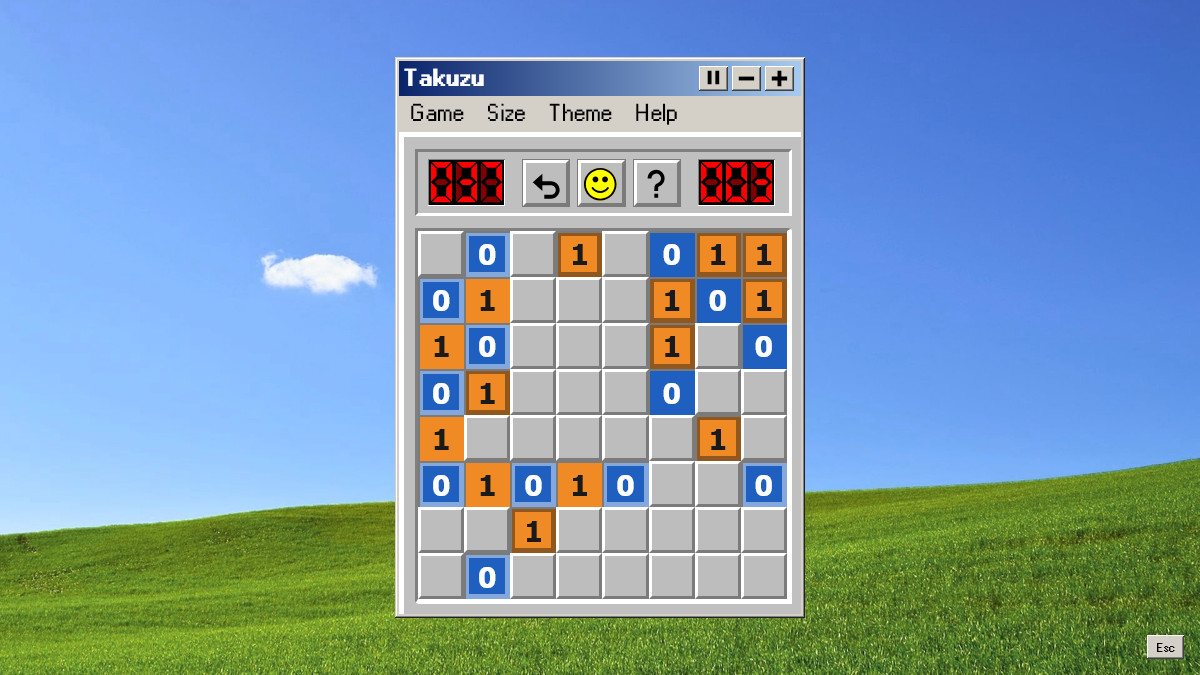
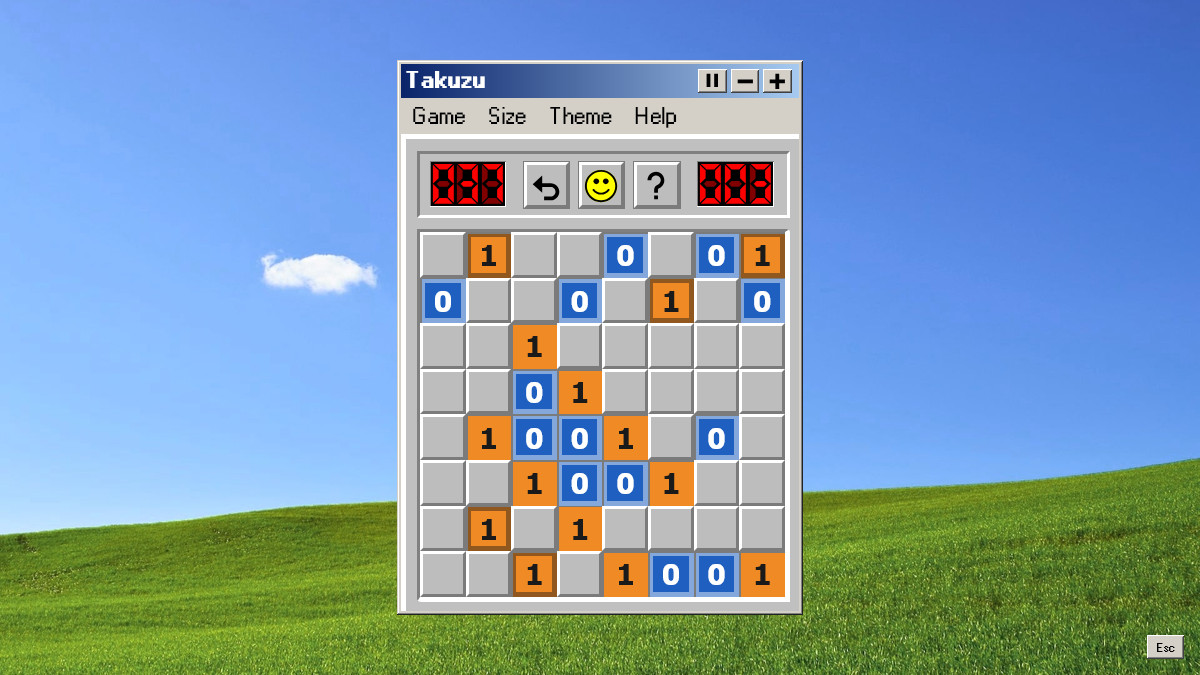
Updates

Changed region(s): [[0.3083, 0.0622, 0.6783, 0.9333]]

diff --git a/assets/app-BQTvLBbz.js b/assets/app-BQTvLBbz.js
@@ -1,0 +1,4 @@
+//#region src/takuzu/app.jsx?raw
+var app_default = "import { h } from 'hyperapp'\r\nimport '../app.css'\r\nimport Winner from '../Winner'\r\nimport BackgroundSettings from '../shell/BackgroundSettings'\r\nimport Boss, { BossButton } from '../shell/Boss'\r\nimport { load, remove, save } from '../shell/storage'\r\nimport { listen, shellActions, shellState, shortcut } from '../shell/actions'\r\nimport Game, { running } from './Game'\r\nimport BestTimes from './BestTimes'\r\nimport Prompt from './Prompt'\r\nimport { fallback, levelNames } from './Menu'\r\nimport { EMPTY, emptyBoard, full, sizes, solved } from './rules'\r\nimport { findHint } from './hint'\r\nimport { deal } from './deal'\r\nimport { showRain } from './rain'\r\nimport About from './About'\r\n\r\n//the saved size and level, medium 8x8 when missing or out of range\r\nconst loadChoice = () => {\r\n  const saved = parseInt(load('takuzu.size'), 10)\r\n  const n = sizes.includes(saved) ? saved : 8\r\n  const level = parseInt(load('takuzu.level'), 10)\r\n  if (!(level >= 0 && level < levelNames.length)) return { n, level: 1 }\r\n  return { n, level: fallback(n, level) }\r\n}\r\n\r\n//an empty board until the dealer answers\r\nexport const createGame = ({ n, level }) => ({\r\n  n,\r\n  level,\r\n  givens: emptyBoard(n),\r\n  solution: null,\r\n  board: emptyBoard(n),\r\n  history: [],\r\n  change: 0,\r\n  dealing: true,\r\n  deal: 0,\r\n  start: -1,\r\n  time: 0,\r\n  raf: null,\r\n  paused: false,\r\n  pausedAt: 0,\r\n  win: false,\r\n  hinted: false,\r\n})\r\n\r\n//best times by size and level, kept apart for games with and without hints\r\nconst timeKey = (n, level, hinted) => `takuzu.${n}.${level}${hinted ? '.hints' : ''}`\r\n\r\nconst eachSlot = (fn) =>\r\n  sizes.flatMap((n) => levelNames.map((_, level) => fn(n, level, `${n}.${level}`)))\r\n\r\nconst bestTimes = (hinted) =>\r\n  Object.fromEntries(\r\n    eachSlot((n, level, slot) => {\r\n      const key = timeKey(n, level, hinted)\r\n      const time = parseInt(load(key), 10) || 999\r\n      return [slot, { time, name: load(`${key}.name`) || 'Anonymous' }]\r\n    }),\r\n  )\r\n\r\nconst clearBestTimes = (hinted) => {\r\n  eachSlot((n, level) => {\r\n    const key = timeKey(n, level, hinted)\r\n    remove(key)\r\n    remove(`${key}.name`)\r\n  })\r\n  return bestTimes(hinted)\r\n}\r\n\r\n//a click steps forward through these, a right click back\r\nconst cycle = [EMPTY, 0, 1]\r\n\r\n//a full board with errors waits this long before asking, when its last cell may still be on its way\r\nconst ASK_AFTER = 2500\r\n\r\nlet deals = 0\r\nlet changes = 0\r\n\r\nconst prevent = (event) => {\r\n  event.preventDefault()\r\n  return false\r\n}\r\n\r\n//the clock starts on the first change or hint\r\nconst begin = (game, actions) => {\r\n  if (game.start >= 0) return game\r\n  game.raf = requestAnimationFrame(actions.tick)\r\n  return { ...game, start: performance.now(), time: 1 }\r\n}\r\n\r\n//after a cell changes: a win, or a full board that isn't one\r\n//settled means another click the same way would only empty the cell again, so ask now\r\n//otherwise the cell may be passing through on its way to the value meant, so ask later\r\nconst changed = (game, board, history, actions, settled = false) => {\r\n  const next = { ...begin(game, actions), board, history, change: ++changes }\r\n  next.win = solved(board, next.n)\r\n  if (next.win) {\r\n    cancelAnimationFrame(next.raf)\r\n    actions.win(next)\r\n  }\r\n  const stuck = !next.win && full(board)\r\n  if (stuck && !settled) setTimeout(() => actions.ask(next.change), ASK_AFTER)\r\n  return { hint: null, prompt: stuck && settled, game: next }\r\n}\r\n\r\n//tricky arrived between medium and hard on 2026-10-29, so the old times were cleared once\r\n//and a saved hard or expert choice moved up a place to keep its name\r\nexport const upgradeLadder = () => {\r\n  if (load('takuzu.ladder') === '5') return\r\n  eachSlot((n, level) => {\r\n    for (const key of [timeKey(n, level, false), timeKey(n, level, true)]) {\r\n      remove(key)\r\n      remove(`${key}.name`)\r\n    }\r\n  })\r\n  const level = parseInt(load('takuzu.level'), 10)\r\n  if (level >= 2) save('takuzu.level', level + 1)\r\n  save('takuzu.ladder', '5')\r\n}\r\n\r\nupgradeLadder()\r\n\r\nexport const state = {\r\n  ...shellState(),\r\n  hint: null,\r\n  prompt: false,\r\n  errors: Boolean(load('takuzu.errors')),\r\n  rain: Boolean(load('takuzu.rain')),\r\n  about: false,\r\n  game: createGame(loadChoice()),\r\n  winner: null,\r\n  bestTime: null,\r\n}\r\n\r\nexport const actions = {\r\n  ...shellActions,\r\n  init: () => (state, actions) => {\r\n    window.addEventListener('keydown', actions.press)\r\n    listen(actions)\r\n    showRain(state.rain)\r\n    actions.reset()\r\n  },\r\n  press: (event) => (state, actions) => {\r\n    //undo is the one shortcut with a modifier\r\n    const typing = ['INPUT', 'SELECT', 'TEXTAREA'].includes(event.target.tagName)\r\n    if ((event.ctrlKey || event.metaKey) && !event.altKey && event.keyCode === 90) {\r\n      if (typing || state.boss) return\r\n      event.preventDefault()\r\n      actions.undo()\r\n      return\r\n    }\r\n    const key = shortcut(event, state, actions)\r\n    if (key === 113 || key === 78) {\r\n      actions.reset()\r\n    } else if (key === 72) {\r\n      actions.hint()\r\n    } else if (key === 80) {\r\n      actions.pause()\r\n    }\r\n  },\r\n  //deals a new board, keeping the size and level unless given\r\n  reset:\r\n    (payload) =>\r\n    ({ game }, actions) => {\r\n      cancelAnimationFrame(game.raf)\r\n      const n = (payload && payload.n) || game.n\r\n      const asked = payload && payload.level !== undefined ? payload.level : game.level\r\n      const level = fallback(n, asked)\r\n      save('takuzu.size', n)\r\n      save('takuzu.level', level)\r\n      const id = ++deals\r\n      deal(n, level, Math.floor(Math.random() * 2 ** 32)).then((dealt) =>\r\n        actions.dealt({ id, ...dealt }),\r\n      )\r\n      return {\r\n        menu: null,\r\n        hint: null,\r\n        prompt: false,\r\n        game: { ...createGame({ n, level }), deal: id },\r\n      }\r\n    },\r\n  //an answer for an older deal is dropped\r\n  dealt:\r\n    ({ id, givens, solution }) =>\r\n    ({ game }) => {\r\n      if (game.deal !== id) return null\r\n      return { game: { ...game, givens, solution, board: givens.slice(), dealing: false } }\r\n    },\r\n  play:\r\n    ({ event, i }) =>\r\n    ({ game }, actions) => {\r\n      if (event.button !== 0 && event.button !== 2) return null\r\n      if (game.dealing || game.paused || game.win || game.givens[i] !== EMPTY) return null\r\n      const back = event.button === 2\r\n      const from = game.board[i]\r\n      const board = game.board.slice()\r\n      board[i] = cycle[(cycle.indexOf(from) + (back ? 2 : 1)) % 3]\r\n      const settled = board[i] === (back ? 0 : 1)\r\n      return changed(game, board, [...game.history, [i, from]], actions, settled)\r\n    },\r\n  //the delayed question, dropped if the board changed or the game moved on meanwhile\r\n  ask:\r\n    (change) =>\r\n    ({ game }) => {\r\n      if (game.change !== change || game.win || game.paused || !full(game.board)) return null\r\n      return { prompt: true }\r\n    },\r\n  undo:\r\n    () =>\r\n    ({ game }, actions) => {\r\n      if (!game.history.length || game.win || game.paused || game.dealing) return { menu: null }\r\n      const [i, from] = game.history[game.history.length - 1]\r\n      const board = game.board.slice()\r\n      board[i] = from\r\n      return { menu: null, ...changed(game, board, game.history.slice(0, -1), actions) }\r\n    },\r\n  hint:\r\n    () =>\r\n    ({ game }, actions) => {\r\n      if (game.dealing || game.win || game.paused) return { menu: null }\r\n      const { board, solution, n } = game\r\n      return {\r\n        menu: null,\r\n        prompt: false,\r\n        hint: findHint({ board, solution, n }),\r\n        game: { ...begin(game, actions), hinted: true },\r\n      }\r\n    },\r\n  //yes asks for a hint, no leaves the player to find the mistake\r\n  answerPrompt: (yes) => (state, actions) => {\r\n    if (yes) actions.hint()\r\n    return { prompt: false }\r\n  },\r\n  toggleErrors: () => (state) => {\r\n    save('takuzu.errors', state.errors ? '' : 'yes')\r\n    return { menu: null, errors: !state.errors }\r\n  },\r\n  toggleRain: () => (state) => {\r\n    save('takuzu.rain', state.rain ? '' : 'yes')\r\n    showRain(!state.rain)\r\n    return { menu: null, rain: !state.rain }\r\n  },\r\n  toggleAbout:\r\n    () =>\r\n    ({ about }) => ({ menu: null, about: !about }),\r\n  //stop the clock and hide the board, only while a game is running\r\n  pause:\r\n    (paused) =>\r\n    ({ game }, actions) => {\r\n      const next = paused === undefined ? !game.paused : paused\r\n      if (!running(game) || next === game.paused) return null\r\n      if (!next) {\r\n        game.raf = requestAnimationFrame(actions.tick)\r\n        return {\r\n          game: { ...game, paused: false, start: game.start + performance.now() - game.pausedAt },\r\n        }\r\n      }\r\n      cancelAnimationFrame(game.raf)\r\n      return { menu: null, game: { ...game, paused: true, pausedAt: performance.now() } }\r\n    },\r\n  tick:\r\n    (now) =>\r\n    ({ game }, actions) => {\r\n      game.raf = requestAnimationFrame(actions.tick)\r\n      const next = Math.floor((now - game.start) / 1000) + 1\r\n      if (game.time === next) return null\r\n      return { game: { ...game, time: next } }\r\n    },\r\n  win:\r\n    ({ n, level, hinted, time }) =>\r\n    () => {\r\n      const key = timeKey(n, level, hinted)\r\n      const best = parseInt(load(key), 10)\r\n      if (best && best <= time) return null\r\n      return {\r\n        winner: {\r\n          key,\r\n          time,\r\n          hinted,\r\n          level: `${levelNames[level].toLowerCase()} ${n} × ${n}`,\r\n          name: load('takuzu.name') || '',\r\n        },\r\n      }\r\n    },\r\n  changeWinner:\r\n    (payload) =>\r\n    ({ winner }) => ({\r\n      winner: { ...winner, ...payload },\r\n    }),\r\n  submitBestTime:\r\n    (event) =>\r\n    ({ winner }, actions) => {\r\n      event.preventDefault()\r\n      const name = winner.name.trim()\r\n      save(winner.key, winner.time)\r\n      save(`${winner.key}.name`, name)\r\n      save('takuzu.name', name)\r\n      actions.toggleBestTime()\r\n      actions.setBestTimeTab(winner.hinted ? 'hinted' : 'clean')\r\n      return { winner: null }\r\n    },\r\n  toggleBestTime:\r\n    () =>\r\n    ({ bestTime }) => ({\r\n      menu: null,\r\n      bestTime: bestTime\r\n        ? null\r\n        : { tab: 'clean', clean: bestTimes(false), hinted: bestTimes(true) },\r\n    }),\r\n  setBestTimeTab: (tab) => (state) =>\r\n    state.bestTime ? { bestTime: { ...state.bestTime, tab } } : null,\r\n  resetBestTime:\r\n    () =>\r\n    ({ bestTime }) => ({\r\n      bestTime: { ...bestTime, [bestTime.tab]: clearBestTimes(bestTime.tab === 'hinted') },\r\n    }),\r\n}\r\n\r\nexport const view = (state, actions) => (\r\n  <main oncontextmenu={prevent} ondragstart={prevent} oncreate={actions.init}>\r\n    <Game key=\"a\" state={state} actions={actions} />\r\n    <BossButton key=\"h\" actions={actions} />\r\n    {state.winner && <Winner key=\"b\" state={state.winner} actions={actions} />}\r\n    {state.bestTime && <BestTimes key=\"c\" state={state.bestTime} actions={actions} />}\r\n    {state.prompt && <Prompt key=\"d\" actions={actions} />}\r\n    {state.backgroundSettings && (\r\n      <BackgroundSettings key=\"e\" state={state.backgroundSettings} actions={actions} />\r\n    )}\r\n    {state.about && <About key=\"f\" actions={actions} />}\r\n    {state.boss && <Boss key=\"g\" state={state.boss} actions={actions} />}\r\n  </main>\r\n)\r\n";
+//#endregion
+export { app_default as default };

diff --git a/assets/techniques-BWmIttHM.js b/assets/techniques-BWmIttHM.js
@@ -1,0 +1,4 @@
+//#region src/takuzu/techniques.js?raw
+var techniques_default = "import { EMPTY, cellsOf, full, lineName as nameOf, linesOf, readLine, violations } from './rules'\r\nimport { propagate, startCandidates } from './solver'\r\n\r\n//the reasoning a person uses, easiest first, behind hints, difficulty and generation\r\n//a step is { technique, level, place: [[cell, value]], sources: [cells], text }\r\n\r\nexport const levels = ['easy', 'medium', 'tricky', 'hard', 'expert']\r\n\r\nconst capital = (text) => text[0].toUpperCase() + text.slice(1)\r\nconst words = ['no', 'one', 'two', 'three', 'four', 'five', 'six', 'seven']\r\nconst many = (count, v) => `${words[count]} ${v}${count === 1 ? '' : 's'}`\r\n\r\n//what a step puts where, in words\r\nconst result = (place) => {\r\n  if (place.length === 1) return `this cell must be a ${place[0][1]}`\r\n  const v = place[0][1]\r\n  if (place.every((p) => p[1] === v)) return `these cells must all be ${v}s`\r\n  return 'these cells must be filled as highlighted'\r\n}\r\n\r\nconst step = (technique, level, place, sources, text) => ({\r\n  technique,\r\n  level,\r\n  place,\r\n  sources,\r\n  text,\r\n})\r\n\r\n//two alike side by side need the other value on both sides\r\nexport const pairs = (board, n) => {\r\n  const steps = []\r\n  cellsOf(n).forEach((cells, line) => {\r\n    for (let k = 0; k + 1 < n; k++) {\r\n      const v = board[cells[k]]\r\n      if (v === EMPTY || v !== board[cells[k + 1]]) continue\r\n      for (const j of [k - 1, k + 2]) {\r\n        if (j < 0 || j >= n || board[cells[j]] !== EMPTY) continue\r\n        steps.push(\r\n          step(\r\n            'pair',\r\n            0,\r\n            [[cells[j], 1 - v]],\r\n            [cells[k], cells[k + 1]],\r\n            `Two ${v}s side by side in ${nameOf(line, n)} can't have a third ${v} next to them, so this cell is a ${1 - v}.`,\r\n          ),\r\n        )\r\n      }\r\n    }\r\n  })\r\n  return steps\r\n}\r\n\r\n//a gap between two alike takes the other value\r\nexport const gaps = (board, n) => {\r\n  const steps = []\r\n  cellsOf(n).forEach((cells, line) => {\r\n    for (let k = 0; k + 2 < n; k++) {\r\n      const v = board[cells[k]]\r\n      if (v === EMPTY || v !== board[cells[k + 2]] || board[cells[k + 1]] !== EMPTY) continue\r\n      steps.push(\r\n        step(\r\n          'gap',\r\n          0,\r\n          [[cells[k + 1], 1 - v]],\r\n          [cells[k], cells[k + 2]],\r\n          `The gap between two ${v}s in ${nameOf(line, n)} would make three in a row as a ${v}, so it is a ${1 - v}.`,\r\n        ),\r\n      )\r\n    }\r\n  })\r\n  return steps\r\n}\r\n\r\n//a line with all its 0s or all its 1s fills the rest with the other value\r\nexport const counts = (board, n) => {\r\n  const steps = []\r\n  cellsOf(n).forEach((cells, line) => {\r\n    const empty = cells.filter((i) => board[i] === EMPTY)\r\n    if (!empty.length) return\r\n    for (const v of [0, 1]) {\r\n      const same = cells.filter((i) => board[i] === v)\r\n      if (same.length * 2 !== n) continue\r\n      const place = empty.map((i) => [i, 1 - v])\r\n      steps.push(\r\n        step(\r\n          'count',\r\n          1,\r\n          place,\r\n          same,\r\n          `${capital(nameOf(line, n))} already has all ${n / 2} of its ${v}s, so ${result(place)}.`,\r\n        ),\r\n      )\r\n    }\r\n  })\r\n  return steps\r\n}\r\n\r\n//a line needing just one more of a value: every spot where it would leave three alike is ruled out\r\nexport const oneLeft = (board, n) => {\r\n  const steps = []\r\n  cellsOf(n).forEach((cells, line) => {\r\n    const empty = cells.filter((i) => board[i] === EMPTY)\r\n    if (empty.length < 2) return\r\n    for (const v of [0, 1]) {\r\n      if (n / 2 - cells.filter((i) => board[i] === v).length !== 1) continue\r\n      //try the last v in each empty cell with the other value everywhere else\r\n      const blocked = empty.filter((spot) => {\r\n        const trial = cells.map((i) => (i === spot ? v : board[i] === EMPTY ? 1 - v : board[i]))\r\n        return trial.some((x, k) => k >= 2 && x === trial[k - 1] && x === trial[k - 2])\r\n      })\r\n      if (!blocked.length) continue\r\n      if (blocked.length === empty.length) {\r\n        steps.push({ contradiction: true })\r\n        return\r\n      }\r\n      const place = blocked.map((i) => [i, 1 - v])\r\n      steps.push(\r\n        step(\r\n          'one-left',\r\n          2,\r\n          place,\r\n          cells.filter((i) => board[i] !== EMPTY),\r\n          `${capital(nameOf(line, n))} needs just one more ${v}, and in ${place.length > 1 ? 'any of these cells' : 'this cell'} it would leave three alike in a row, so ${result(place)}.`,\r\n        ),\r\n      )\r\n    }\r\n  })\r\n  return steps\r\n}\r\n\r\n//a line two cells short of matching a full one has to finish the other way round\r\nexport const twins = (board, n) => {\r\n  const steps = []\r\n  const lines = cellsOf(n)\r\n  const all = (1 << n) - 1\r\n  lines.forEach((cells, line) => {\r\n    const empty = cells.filter((i) => board[i] === EMPTY)\r\n    if (empty.length !== 2) return\r\n    const { known, value } = readLine(board, cells)\r\n    const twin = lines.findIndex((other, l) => {\r\n      if (l === line || l < n !== line < n) return false\r\n      const done = readLine(board, other)\r\n      return done.known === all && (done.value & known) === value\r\n    })\r\n    if (twin < 0) return\r\n    const place = empty.map((i) => [i, 1 - board[lines[twin][cells.indexOf(i)]]])\r\n    if (place[0][1] === place[1][1]) return\r\n    steps.push(\r\n      step(\r\n        'twins',\r\n        2,\r\n        place,\r\n        [...cells, ...lines[twin]].filter((i) => board[i] !== EMPTY),\r\n        `${capital(nameOf(line, n))} matches ${nameOf(twin, n)} except for these two cells, and no two ${line < n ? 'rows' : 'columns'} may match, so they go the other way round.`,\r\n      ),\r\n    )\r\n  })\r\n  return steps\r\n}\r\n\r\n//the valid lines that fit what a line already shows, without repeating a full line if asked\r\nconst fitsOf = (board, cells, n, repeats) => {\r\n  const { known, value } = readLine(board, cells)\r\n  return linesOf(n).filter((mask) => (mask & known) === value && !repeats?.has(mask))\r\n}\r\n\r\n//cells every fitting line agrees on, and whether nothing fits at all\r\nconst forced = (board, cells, n, fits) => {\r\n  const { known } = readLine(board, cells)\r\n  const all = (1 << n) - 1\r\n  let ones = all\r\n  let any = 0\r\n  for (const mask of fits) {\r\n    ones &= mask\r\n    any |= mask\r\n  }\r\n  const fill = (ones | ~any) & all & ~known\r\n  return cells.flatMap((i, k) => ((fill >> k) & 1 ? [[i, (ones >> k) & 1]] : []))\r\n}\r\n\r\n//full lines by orientation, as bitmasks with the line they came from\r\nconst fullLines = (board, n) => {\r\n  const done = [new Map(), new Map()]\r\n  const all = (1 << n) - 1\r\n  cellsOf(n).forEach((cells, line) => {\r\n    const { known, value } = readLine(board, cells)\r\n    if (known === all) done[line < n ? 0 : 1].set(value, line)\r\n  })\r\n  return done\r\n}\r\n\r\n//every way to finish this one line without three alike agrees on some cells\r\nexport const balance = (board, n) => {\r\n  const steps = []\r\n  cellsOf(n).forEach((cells, line) => {\r\n    const empty = cells.filter((i) => board[i] === EMPTY)\r\n    if (!empty.length) return\r\n    const fits = fitsOf(board, cells, n)\r\n    if (!fits.length) {\r\n      steps.push({ contradiction: true })\r\n      return\r\n    }\r\n    const place = forced(board, cells, n, fits)\r\n    if (!place.length) return\r\n    const zeros = n / 2 - cells.filter((i) => board[i] === 0).length\r\n    const ones = n / 2 - cells.filter((i) => board[i] === 1).length\r\n    steps.push(\r\n      step(\r\n        'balance',\r\n        3,\r\n        place,\r\n        cells.filter((i) => board[i] !== EMPTY),\r\n        `${capital(nameOf(line, n))} still needs ${many(zeros, 0)} and ${many(ones, 1)}. Every way to fit them in without three alike in a row agrees here, so ${result(place)}.`,\r\n      ),\r\n    )\r\n  })\r\n  return steps\r\n}\r\n\r\n//no two rows or two columns may match, which can rule out the only other way to finish a line\r\nexport const repeats = (board, n) => {\r\n  const steps = []\r\n  const done = fullLines(board, n)\r\n  cellsOf(n).forEach((cells, line) => {\r\n    if (!cells.some((i) => board[i] === EMPTY)) return\r\n    const others = done[line < n ? 0 : 1]\r\n    const fits = fitsOf(board, cells, n)\r\n    const blocked = fits.filter((mask) => others.has(mask))\r\n    if (!blocked.length) return\r\n    const left = fits.filter((mask) => !others.has(mask))\r\n    if (!left.length) {\r\n      steps.push({ contradiction: true })\r\n      return\r\n    }\r\n    const place = forced(board, cells, n, left)\r\n    if (!place.length) return\r\n    const twins = blocked.map((mask) => others.get(mask))\r\n    const lines = cellsOf(n)\r\n    steps.push(\r\n      step(\r\n        'repeat',\r\n        3,\r\n        place,\r\n        [cells, ...twins.map((l) => lines[l])].flat().filter((i) => board[i] !== EMPTY),\r\n        `${capital(nameOf(line, n))} could otherwise end up the same as ${twins.map((l) => nameOf(l, n)).join(' or ')}, and no two ${line < n ? 'rows' : 'columns'} may match, so ${result(place)}.`,\r\n      ),\r\n    )\r\n  })\r\n  return steps\r\n}\r\n\r\n//what if: a value that leads the easier rules into a broken rule must be the other one\r\n//the easier levels together are exactly line by line reasoning, so the fast line propagation stands in for them\r\nexport const whatIf = (board, n) => {\r\n  const base = propagate(board.slice(), n, startCandidates(n))\r\n  if (!base) return [{ contradiction: true }]\r\n  const empty = [...board.keys()].filter((i) => board[i] === EMPTY)\r\n  for (const i of empty) {\r\n    for (const v of [0, 1]) {\r\n      const trial = board.slice()\r\n      trial[i] = v\r\n      if (propagate(trial, n, base)) continue\r\n      return [\r\n        step(\r\n          'what-if',\r\n          4,\r\n          [[i, 1 - v]],\r\n          [i],\r\n          `If this cell were a ${v}, the simpler rules would soon break a rule somewhere, so it must be a ${1 - v}.`,\r\n        ),\r\n      ]\r\n    }\r\n  }\r\n  return []\r\n}\r\n\r\nconst techniques = [[pairs, gaps], [counts], [oneLeft, twins], [balance, repeats], [whatIf]]\r\n\r\n//the easiest steps available, or a contradiction, using techniques up to a level\r\nexport const nextSteps = (board, n, top = levels.length - 1) => {\r\n  for (let level = 0; level <= top; level++) {\r\n    for (const technique of techniques[level]) {\r\n      const steps = technique(board, n)\r\n      if (steps.some((s) => s.contradiction)) return { contradiction: true, steps: [] }\r\n      if (steps.length) return { level, steps }\r\n    }\r\n  }\r\n  return { steps: [] }\r\n}\r\n\r\n//applies steps in place, false when two steps disagree or a rule breaks\r\nconst apply = (board, n, steps) => {\r\n  for (const { place } of steps) {\r\n    for (const [i, v] of place) {\r\n      if (board[i] !== EMPTY && board[i] !== v) return false\r\n      board[i] = v\r\n    }\r\n  }\r\n  return violations(board, n).size === 0\r\n}\r\n\r\n//the hardest level a board needs, or null when techniques up to top can't finish it\r\nexport const rate = (givens, n, top = levels.length - 1) => {\r\n  const board = givens.slice()\r\n  let hardest = 0\r\n  while (!full(board)) {\r\n    const { contradiction, level, steps } = nextSteps(board, n, top)\r\n    if (contradiction || !steps.length) return null\r\n    hardest = Math.max(hardest, level)\r\n    if (!apply(board, n, steps)) return null\r\n  }\r\n  return { level: hardest, solution: board }\r\n}\r\n";
+//#endregion
+export { techniques_default as default };

diff --git a/assets/takuzu.js b/assets/takuzu.js
@@ -1,4 +1,4 @@
-import { A as glyphImage, C as MenuItem, D as startBackgrounds, E as ThemeMenu, F as Dialog, I as Button, L as app, M as remove, N as save, O as BRIGHT, P as Menu_module_default, R as h, T as SubMenuItem, _ as HintIcon, a as shortcut, b as Play, c as About_module_default, d as Winner, g as WindowControls, h as watchWindow, i as shellState, j as load, k as GLYPH, l as BackgroundSettings, m as hangBelow, n as listen, o as Boss, p as Overlay, r as shellActions, s as BossButton, t as registerWorker, u as BestTime_module_default, v as SideButton, w as Separator, x as Digit, y as UndoIcon } from "./worker-DWyEL2Vc.js";
+import { A as glyphImage, C as MenuItem, D as startBackgrounds, E as ThemeMenu, F as Dialog, I as Button, L as app, M as remove, N as save, O as BRIGHT, P as Menu_module_default, R as h, T as SubMenuItem, _ as HintIcon, a as shortcut, b as Play, c as About_module_default, d as Winner, g as WindowControls, h as watchWindow, i as shellState, j as load, k as GLYPH, l as BackgroundSettings, m as hangBelow, n as listen, o as Boss, p as Overlay, r as shellActions, s as BossButton, t as registerWorker, u as BestTime_module_default, v as SideButton, w as Separator, x as Digit, y as UndoIcon } from "./worker-COk6R1rk.js";
 var Game_module_default = {
 	root: "Game_root",
 	scoreboard: "Game_scoreboard",
@@ -168,6 +168,7 @@ var solve = (board, n, shuffle = asIs) => {
 var levels = [
 	"easy",
 	"medium",
+	"tricky",
 	"hard",
 	"expert"
 ];
@@ -235,6 +236,48 @@ var counts = (board, n) => {
 	});
 	return steps;
 };
+var oneLeft = (board, n) => {
+	const steps = [];
+	cellsOf(n).forEach((cells, line) => {
+		const empty = cells.filter((i) => board[i] === -1);
+		if (empty.length < 2) return;
+		for (const v of [0, 1]) {
+			if (n / 2 - cells.filter((i) => board[i] === v).length !== 1) continue;
+			const blocked = empty.filter((spot) => {
+				const trial = cells.map((i) => i === spot ? v : board[i] === -1 ? 1 - v : board[i]);
+				return trial.some((x, k) => k >= 2 && x === trial[k - 1] && x === trial[k - 2]);
+			});
+			if (!blocked.length) continue;
+			if (blocked.length === empty.length) {
+				steps.push({ contradiction: true });
+				return;
+			}
+			const place = blocked.map((i) => [i, 1 - v]);
+			steps.push(step("one-left", 2, place, cells.filter((i) => board[i] !== -1), `${capital(lineName(line, n))} needs just one more ${v}, and in ${place.length > 1 ? "any of these cells" : "this cell"} it would leave three alike in a row, so ${result(place)}.`));
+		}
+	});
+	return steps;
+};
+var twins = (board, n) => {
+	const steps = [];
+	const lines = cellsOf(n);
+	const all = (1 << n) - 1;
+	lines.forEach((cells, line) => {
+		const empty = cells.filter((i) => board[i] === -1);
+		if (empty.length !== 2) return;
+		const { known, value } = readLine(board, cells);
+		const twin = lines.findIndex((other, l) => {
+			if (l === line || l < n !== line < n) return false;
+			const done = readLine(board, other);
+			return done.known === all && (done.value & known) === value;
+		});
+		if (twin < 0) return;
+		const place = empty.map((i) => [i, 1 - board[lines[twin][cells.indexOf(i)]]]);
+		if (place[0][1] === place[1][1]) return;
+		steps.push(step("twins", 2, place, [...cells, ...lines[twin]].filter((i) => board[i] !== -1), `${capital(lineName(line, n))} matches ${lineName(twin, n)} except for these two cells, and no two ${line < n ? "rows" : "columns"} may match, so they go the other way round.`));
+	});
+	return steps;
+};
 var fitsOf = (board, cells, n, repeats) => {
 	const { known, value } = readLine(board, cells);
 	return linesOf(n).filter((mask) => (mask & known) === value && !repeats?.has(mask));
@@ -273,7 +316,7 @@ var balance = (board, n) => {
 		if (!place.length) return;
 		const zeros = n / 2 - cells.filter((i) => board[i] === 0).length;
 		const ones = n / 2 - cells.filter((i) => board[i] === 1).length;
-		steps.push(step("balance", 2, place, cells.filter((i) => board[i] !== -1), `${capital(lineName(line, n))} still needs ${many(zeros, 0)} and ${many(ones, 1)}. Every way to fit them in without three alike in a row agrees here, so ${result(place)}.`));
+		steps.push(step("balance", 3, place, cells.filter((i) => board[i] !== -1), `${capital(lineName(line, n))} still needs ${many(zeros, 0)} and ${many(ones, 1)}. Every way to fit them in without three alike in a row agrees here, so ${result(place)}.`));
 	});
 	return steps;
 };
@@ -295,7 +338,7 @@ var repeats = (board, n) => {
 		if (!place.length) return;
 		const twins = blocked.map((mask) => others.get(mask));
 		const lines = cellsOf(n);
-		steps.push(step("repeat", 2, place, [cells, ...twins.map((l) => lines[l])].flat().filter((i) => board[i] !== -1), `${capital(lineName(line, n))} could otherwise end up the same as ${twins.map((l) => lineName(l, n)).join(" or ")}, and no two ${line < n ? "rows" : "columns"} may match, so ${result(place)}.`));
+		steps.push(step("repeat", 3, place, [cells, ...twins.map((l) => lines[l])].flat().filter((i) => board[i] !== -1), `${capital(lineName(line, n))} could otherwise end up the same as ${twins.map((l) => lineName(l, n)).join(" or ")}, and no two ${line < n ? "rows" : "columns"} may match, so ${result(place)}.`));
 	});
 	return steps;
 };
@@ -307,17 +350,18 @@ var whatIf = (board, n) => {
 		const trial = board.slice();
 		trial[i] = v;
 		if (propagate(trial, n, base)) continue;
-		return [step("what-if", 3, [[i, 1 - v]], [i], `If this cell were a ${v}, the simpler rules would soon break a rule somewhere, so it must be a ${1 - v}.`)];
+		return [step("what-if", 4, [[i, 1 - v]], [i], `If this cell were a ${v}, the simpler rules would soon break a rule somewhere, so it must be a ${1 - v}.`)];
 	}
 	return [];
 };
 var techniques = [
 	[pairs, gaps],
 	[counts],
+	[oneLeft, twins],
 	[balance, repeats],
 	[whatIf]
 ];
-var nextSteps = (board, n, top = 3) => {
+var nextSteps = (board, n, top = levels.length - 1) => {
 	for (let level = 0; level <= top; level++) for (const technique of techniques[level]) {
 		const steps = technique(board, n);
 		if (steps.some((s) => s.contradiction)) return {
@@ -338,7 +382,7 @@ var apply = (board, n, steps) => {
 	}
 	return violations(board, n).size === 0;
 };
-var rate = (givens, n, top = 3) => {
+var rate = (givens, n, top = levels.length - 1) => {
 	const board = givens.slice();
 	let hardest = 0;
 	while (!full(board)) {
@@ -357,10 +401,12 @@ var rate = (givens, n, top = 3) => {
 var levelNames = [
 	"Easy",
 	"Medium",
+	"Tricky",
 	"Hard",
 	"Expert"
 ];
-var allowed = (n, level) => !(n === 6 && level === 3);
+var allowed = (n, level) => !(n === 6 && level === levelNames.length - 1);
+var fallback = (n, level) => allowed(n, level) ? level : fallback(n, level - 1);
 var Menu = ({ state, actions }) => /* @__PURE__ */ h("ul", {
 	class: Menu_module_default.root,
 	tabindex: -1,
@@ -697,7 +743,7 @@ var start = () => {
 	try {
 		worker = new Worker(new URL(
 			/* @vite-ignore */
-			new URL("deal.worker-DAO_qmi-.js", import.meta.url).href,
+			new URL("deal.worker-CuayEGjx.js", import.meta.url).href,
 			"" + import.meta.url
 		), { type: "module" });
 		worker.onmessage = ({ data }) => {
@@ -771,7 +817,7 @@ var loadChoice = () => {
 	};
 	return {
 		n,
-		level: allowed(n, level) ? level : 2
+		level: fallback(n, level)
 	};
 };
 var createGame = ({ n, level }) => ({
@@ -850,6 +896,19 @@ var changed = (game, board, history, actions, settled = false) => {
 		game: next
 	};
 };
+var upgradeLadder = () => {
+	if (load("takuzu.ladder") === "5") return;
+	eachSlot((n, level) => {
+		for (const key of [timeKey(n, level, false), timeKey(n, level, true)]) {
+			remove(key);
+			remove(`${key}.name`);
+		}
+	});
+	const level = parseInt(load("takuzu.level"), 10);
+	if (level >= 2) save("takuzu.level", level + 1);
+	save("takuzu.ladder", "5");
+};
+upgradeLadder();
 var state = {
 	...shellState(),
 	hint: null,
@@ -889,8 +948,7 @@ var actions = {
 	reset: (payload) => ({ game }, actions) => {
 		cancelAnimationFrame(game.raf);
 		const n = payload && payload.n || game.n;
-		const asked = payload && payload.level !== void 0 ? payload.level : game.level;
-		const level = allowed(n, asked) ? asked : 2;
+		const level = fallback(n, payload && payload.level !== void 0 ? payload.level : game.level);
 		save("takuzu.size", n);
 		save("takuzu.level", level);
 		const id = ++deals;

diff --git a/assets/deal.worker-CuayEGjx.js b/assets/deal.worker-CuayEGjx.js
@@ -147,6 +147,13 @@
 	};
 	//#endregion
 	//#region src/takuzu/techniques.js
+	const levels = [
+		"easy",
+		"medium",
+		"tricky",
+		"hard",
+		"expert"
+	];
 	const capital = (text) => text[0].toUpperCase() + text.slice(1);
 	const words = [
 		"no",
@@ -211,6 +218,48 @@
 		});
 		return steps;
 	};
+	const oneLeft = (board, n) => {
+		const steps = [];
+		cellsOf(n).forEach((cells, line) => {
+			const empty = cells.filter((i) => board[i] === -1);
+			if (empty.length < 2) return;
+			for (const v of [0, 1]) {
+				if (n / 2 - cells.filter((i) => board[i] === v).length !== 1) continue;
+				const blocked = empty.filter((spot) => {
+					const trial = cells.map((i) => i === spot ? v : board[i] === -1 ? 1 - v : board[i]);
+					return trial.some((x, k) => k >= 2 && x === trial[k - 1] && x === trial[k - 2]);
+				});
+				if (!blocked.length) continue;
+				if (blocked.length === empty.length) {
+					steps.push({ contradiction: true });
+					return;
+				}
+				const place = blocked.map((i) => [i, 1 - v]);
+				steps.push(step("one-left", 2, place, cells.filter((i) => board[i] !== -1), `${capital(lineName(line, n))} needs just one more ${v}, and in ${place.length > 1 ? "any of these cells" : "this cell"} it would leave three alike in a row, so ${result(place)}.`));
+			}
+		});
+		return steps;
+	};
+	const twins = (board, n) => {
+		const steps = [];
+		const lines = cellsOf(n);
+		const all = (1 << n) - 1;
+		lines.forEach((cells, line) => {
+			const empty = cells.filter((i) => board[i] === -1);
+			if (empty.length !== 2) return;
+			const { known, value } = readLine(board, cells);
+			const twin = lines.findIndex((other, l) => {
+				if (l === line || l < n !== line < n) return false;
+				const done = readLine(board, other);
+				return done.known === all && (done.value & known) === value;
+			});
+			if (twin < 0) return;
+			const place = empty.map((i) => [i, 1 - board[lines[twin][cells.indexOf(i)]]]);
+			if (place[0][1] === place[1][1]) return;
+			steps.push(step("twins", 2, place, [...cells, ...lines[twin]].filter((i) => board[i] !== -1), `${capital(lineName(line, n))} matches ${lineName(twin, n)} except for these two cells, and no two ${line < n ? "rows" : "columns"} may match, so they go the other way round.`));
+		});
+		return steps;
+	};
 	const fitsOf = (board, cells, n, repeats) => {
 		const { known, value } = readLine(board, cells);
 		return linesOf(n).filter((mask) => (mask & known) === value && !repeats?.has(mask));
@@ -249,7 +298,7 @@
 			if (!place.length) return;
 			const zeros = n / 2 - cells.filter((i) => board[i] === 0).length;
 			const ones = n / 2 - cells.filter((i) => board[i] === 1).length;
-			steps.push(step("balance", 2, place, cells.filter((i) => board[i] !== -1), `${capital(lineName(line, n))} still needs ${many(zeros, 0)} and ${many(ones, 1)}. Every way to fit them in without three alike in a row agrees here, so ${result(place)}.`));
+			steps.push(step("balance", 3, place, cells.filter((i) => board[i] !== -1), `${capital(lineName(line, n))} still needs ${many(zeros, 0)} and ${many(ones, 1)}. Every way to fit them in without three alike in a row agrees here, so ${result(place)}.`));
 		});
 		return steps;
 	};
@@ -271,7 +320,7 @@
 			if (!place.length) return;
 			const twins = blocked.map((mask) => others.get(mask));
 			const lines = cellsOf(n);
-			steps.push(step("repeat", 2, place, [cells, ...twins.map((l) => lines[l])].flat().filter((i) => board[i] !== -1), `${capital(lineName(line, n))} could otherwise end up the same as ${twins.map((l) => lineName(l, n)).join(" or ")}, and no two ${line < n ? "rows" : "columns"} may match, so ${result(place)}.`));
+			steps.push(step("repeat", 3, place, [cells, ...twins.map((l) => lines[l])].flat().filter((i) => board[i] !== -1), `${capital(lineName(line, n))} could otherwise end up the same as ${twins.map((l) => lineName(l, n)).join(" or ")}, and no two ${line < n ? "rows" : "columns"} may match, so ${result(place)}.`));
 		});
 		return steps;
 	};
@@ -283,17 +332,18 @@
 			const trial = board.slice();
 			trial[i] = v;
 			if (propagate(trial, n, base)) continue;
-			return [step("what-if", 3, [[i, 1 - v]], [i], `If this cell were a ${v}, the simpler rules would soon break a rule somewhere, so it must be a ${1 - v}.`)];
+			return [step("what-if", 4, [[i, 1 - v]], [i], `If this cell were a ${v}, the simpler rules would soon break a rule somewhere, so it must be a ${1 - v}.`)];
 		}
 		return [];
 	};
 	const techniques = [
 		[pairs, gaps],
 		[counts],
+		[oneLeft, twins],
 		[balance, repeats],
 		[whatIf]
 	];
-	const nextSteps = (board, n, top = 3) => {
+	const nextSteps = (board, n, top = levels.length - 1) => {
 		for (let level = 0; level <= top; level++) for (const technique of techniques[level]) {
 			const steps = technique(board, n);
 			if (steps.some((s) => s.contradiction)) return {
@@ -314,7 +364,7 @@
 		}
 		return violations(board, n).size === 0;
 	};
-	const rate = (givens, n, top = 3) => {
+	const rate = (givens, n, top = levels.length - 1) => {
 		const board = givens.slice();
 		let hardest = 0;
 		while (!full(board)) {

diff --git a/assets/Menu-C4C3lgHN.js b/assets/Menu-C4C3lgHN.js
@@ -1,0 +1,4 @@
+//#region src/takuzu/Menu.jsx?raw
+var Menu_default = "import { h } from 'hyperapp'\r\nimport m from '../Menu.module.css'\r\nimport { MenuItem, Separator, SubMenuItem } from '../Menu'\r\nimport ThemeMenu from '../shell/ThemeMenu'\r\nimport { sizes } from './rules'\r\nimport { levels } from './techniques'\r\n\r\nexport const levelNames = ['Easy', 'Medium', 'Tricky', 'Hard', 'Expert']\r\n\r\n//6x6 has no expert, by choice\r\nexport const allowed = (n, level) => !(n === 6 && level === levelNames.length - 1)\r\n\r\n//the level asked for, or the hardest one below it that the size allows\r\nexport const fallback = (n, level) => (allowed(n, level) ? level : fallback(n, level - 1))\r\n\r\nconst Menu = ({ state, actions }) => (\r\n  <ul class={m.root} tabindex={-1} onfocusout={actions.toggleMenu}>\r\n    <MenuItem name=\"Game\" type=\"game\" active={state.menu} onChange={actions.toggleMenu}>\r\n      <SubMenuItem name=\"New\" hotKey=\"F2\" onClick={() => actions.reset()} />\r\n      <SubMenuItem name=\"Undo\" hotKey=\"Ctrl+Z\" onClick={() => actions.undo()} />\r\n      <SubMenuItem name=\"Hint\" hotKey=\"H\" onClick={() => actions.hint()} />\r\n      <Separator />\r\n      {levels.map((_, level) => (\r\n        <SubMenuItem\r\n          name={levelNames[level]}\r\n          checked={state.game.level === level}\r\n          disabled={!allowed(state.game.n, level)}\r\n          onClick={() => actions.reset({ level })}\r\n        />\r\n      ))}\r\n      <Separator />\r\n      <SubMenuItem name=\"Show Errors\" checked={state.errors} onClick={actions.toggleErrors} />\r\n      <Separator />\r\n      <SubMenuItem name=\"Best Times...\" onClick={actions.toggleBestTime} />\r\n      <Separator />\r\n      <SubMenuItem name=\"Minesweeper\" onClick={() => location.assign('../minesweeper/')} />\r\n    </MenuItem>\r\n    <MenuItem name=\"Size\" type=\"size\" active={state.menu} onChange={actions.toggleMenu}>\r\n      {sizes.map((n) => (\r\n        <SubMenuItem\r\n          name={`${n} × ${n}`}\r\n          checked={state.game.n === n}\r\n          onClick={() => actions.reset({ n })}\r\n        />\r\n      ))}\r\n    </MenuItem>\r\n    <ThemeMenu state={state} actions={actions}>\r\n      {state.theme === 'matrix' && <Separator />}\r\n      {state.theme === 'matrix' && (\r\n        <SubMenuItem name=\"Rain Glyphs\" checked={state.rain} onClick={actions.toggleRain} />\r\n      )}\r\n    </ThemeMenu>\r\n    <MenuItem name=\"Help\" type=\"help\" active={state.menu} onChange={actions.toggleMenu}>\r\n      <SubMenuItem name=\"About Takuzu Plus...\" onClick={actions.toggleAbout} />\r\n    </MenuItem>\r\n  </ul>\r\n)\r\n\r\nexport default Menu\r\n";
+//#endregion
+export { Menu_default as default };

diff --git a/assets/worker-COk6R1rk.js b/assets/worker-COk6R1rk.js
@@ -1344,9 +1344,9 @@ var sources = /* #__PURE__ */ Object.assign({
 	"/src/takuzu/BestTimes.jsx": () => __vitePreload(() => import("./BestTimes-bpI06IUh.js").then((m) => m["default"]), [], import.meta.url),
 	"/src/takuzu/Cell.jsx": () => __vitePreload(() => import("./Cell-B28BFMy2.js").then((m) => m["default"]), [], import.meta.url),
 	"/src/takuzu/Game.jsx": () => __vitePreload(() => import("./Game-BjPsN-o6.js").then((m) => m["default"]), [], import.meta.url),
-	"/src/takuzu/Menu.jsx": () => __vitePreload(() => import("./Menu-CH4n24IS.js").then((m) => m["default"]), [], import.meta.url),
+	"/src/takuzu/Menu.jsx": () => __vitePreload(() => import("./Menu-C4C3lgHN.js").then((m) => m["default"]), [], import.meta.url),
 	"/src/takuzu/Prompt.jsx": () => __vitePreload(() => import("./Prompt-zY7l38Ey.js").then((m) => m["default"]), [], import.meta.url),
-	"/src/takuzu/app.jsx": () => __vitePreload(() => import("./app-n1Zz3jwX.js").then((m) => m["default"]), [], import.meta.url),
+	"/src/takuzu/app.jsx": () => __vitePreload(() => import("./app-BQTvLBbz.js").then((m) => m["default"]), [], import.meta.url),
 	"/src/takuzu/deal.js": () => __vitePreload(() => import("./deal-BO0x2QS5.js").then((m) => m["default"]), [], import.meta.url),
 	"/src/takuzu/deal.worker.js": () => __vitePreload(() => import("./deal.worker-CZDca1Jh.js").then((m) => m["default"]), [], import.meta.url),
 	"/src/takuzu/generate.js": () => __vitePreload(() => import("./generate-Bpc4lY75.js").then((m) => m["default"]), [], import.meta.url),
@@ -1355,7 +1355,7 @@ var sources = /* #__PURE__ */ Object.assign({
 	"/src/takuzu/rain.js": () => __vitePreload(() => import("./rain-Dc-4LR4I.js").then((m) => m["default"]), [], import.meta.url),
 	"/src/takuzu/rules.js": () => __vitePreload(() => import("./rules-JSobALHn.js").then((m) => m["default"]), [], import.meta.url),
 	"/src/takuzu/solver.js": () => __vitePreload(() => import("./solver-XOjlfRlB.js").then((m) => m["default"]), [], import.meta.url),
-	"/src/takuzu/techniques.js": () => __vitePreload(() => import("./techniques-Dz_Wq6Gz.js").then((m) => m["default"]), [], import.meta.url)
+	"/src/takuzu/techniques.js": () => __vitePreload(() => import("./techniques-BWmIttHM.js").then((m) => m["default"]), [], import.meta.url)
 });
 var texts = null;
 var loadTexts = () => texts ??= Promise.all(Object.entries(sources).map(async ([path, load]) => ({

diff --git a/assets/minesweeper.js b/assets/minesweeper.js
@@ -1,4 +1,4 @@
-import { D as startBackgrounds, F as Dialog, I as Button, L as app, M as remove, N as save, R as h, S as Menu, _ as HintIcon, a as shortcut, b as Play, c as About_module_default, d as Winner, f as Input, g as WindowControls, h as watchWindow, i as shellState, j as load, l as BackgroundSettings, m as hangBelow, n as listen, o as Boss, p as Overlay, r as shellActions, s as BossButton, t as registerWorker, u as BestTime_module_default, v as SideButton, x as Digit } from "./worker-DWyEL2Vc.js";
+import { D as startBackgrounds, F as Dialog, I as Button, L as app, M as remove, N as save, R as h, S as Menu, _ as HintIcon, a as shortcut, b as Play, c as About_module_default, d as Winner, f as Input, g as WindowControls, h as watchWindow, i as shellState, j as load, l as BackgroundSettings, m as hangBelow, n as listen, o as Boss, p as Overlay, r as shellActions, s as BossButton, t as registerWorker, u as BestTime_module_default, v as SideButton, x as Digit } from "./worker-COk6R1rk.js";
 var Game_module_default = {
 	root: "Game_root",
 	scoreboard: "Game_scoreboard",

diff --git a/minesweeper/index.html b/minesweeper/index.html
@@ -48,8 +48,8 @@
         document.body.append(note)
       })
     </script>
-    <script type="module" crossorigin src="../assets/minesweeper.js?v=1db937e4"></script>
-    <link rel="modulepreload" crossorigin href="../assets/worker-DWyEL2Vc.js?v=cb005aae">
+    <script type="module" crossorigin src="../assets/minesweeper.js?v=6c0287dd"></script>
+    <link rel="modulepreload" crossorigin href="../assets/worker-COk6R1rk.js?v=98723c39">
     <link rel="stylesheet" crossorigin href="../assets/worker.css?v=dfc38372">
     <link rel="stylesheet" crossorigin href="../assets/minesweeper.css?v=67227984">
   </head>

diff --git a/takuzu/index.html b/takuzu/index.html
@@ -51,8 +51,8 @@
         document.body.append(note)
       })
     </script>
-    <script type="module" crossorigin src="../assets/takuzu.js?v=c93833cf"></script>
-    <link rel="modulepreload" crossorigin href="../assets/worker-DWyEL2Vc.js?v=cb005aae">
+    <script type="module" crossorigin src="../assets/takuzu.js?v=ed0520a4"></script>
+    <link rel="modulepreload" crossorigin href="../assets/worker-COk6R1rk.js?v=98723c39">
     <link rel="stylesheet" crossorigin href="../assets/worker.css?v=dfc38372">
     <link rel="stylesheet" crossorigin href="../assets/takuzu.css?v=f950fbf2">
   </head>
